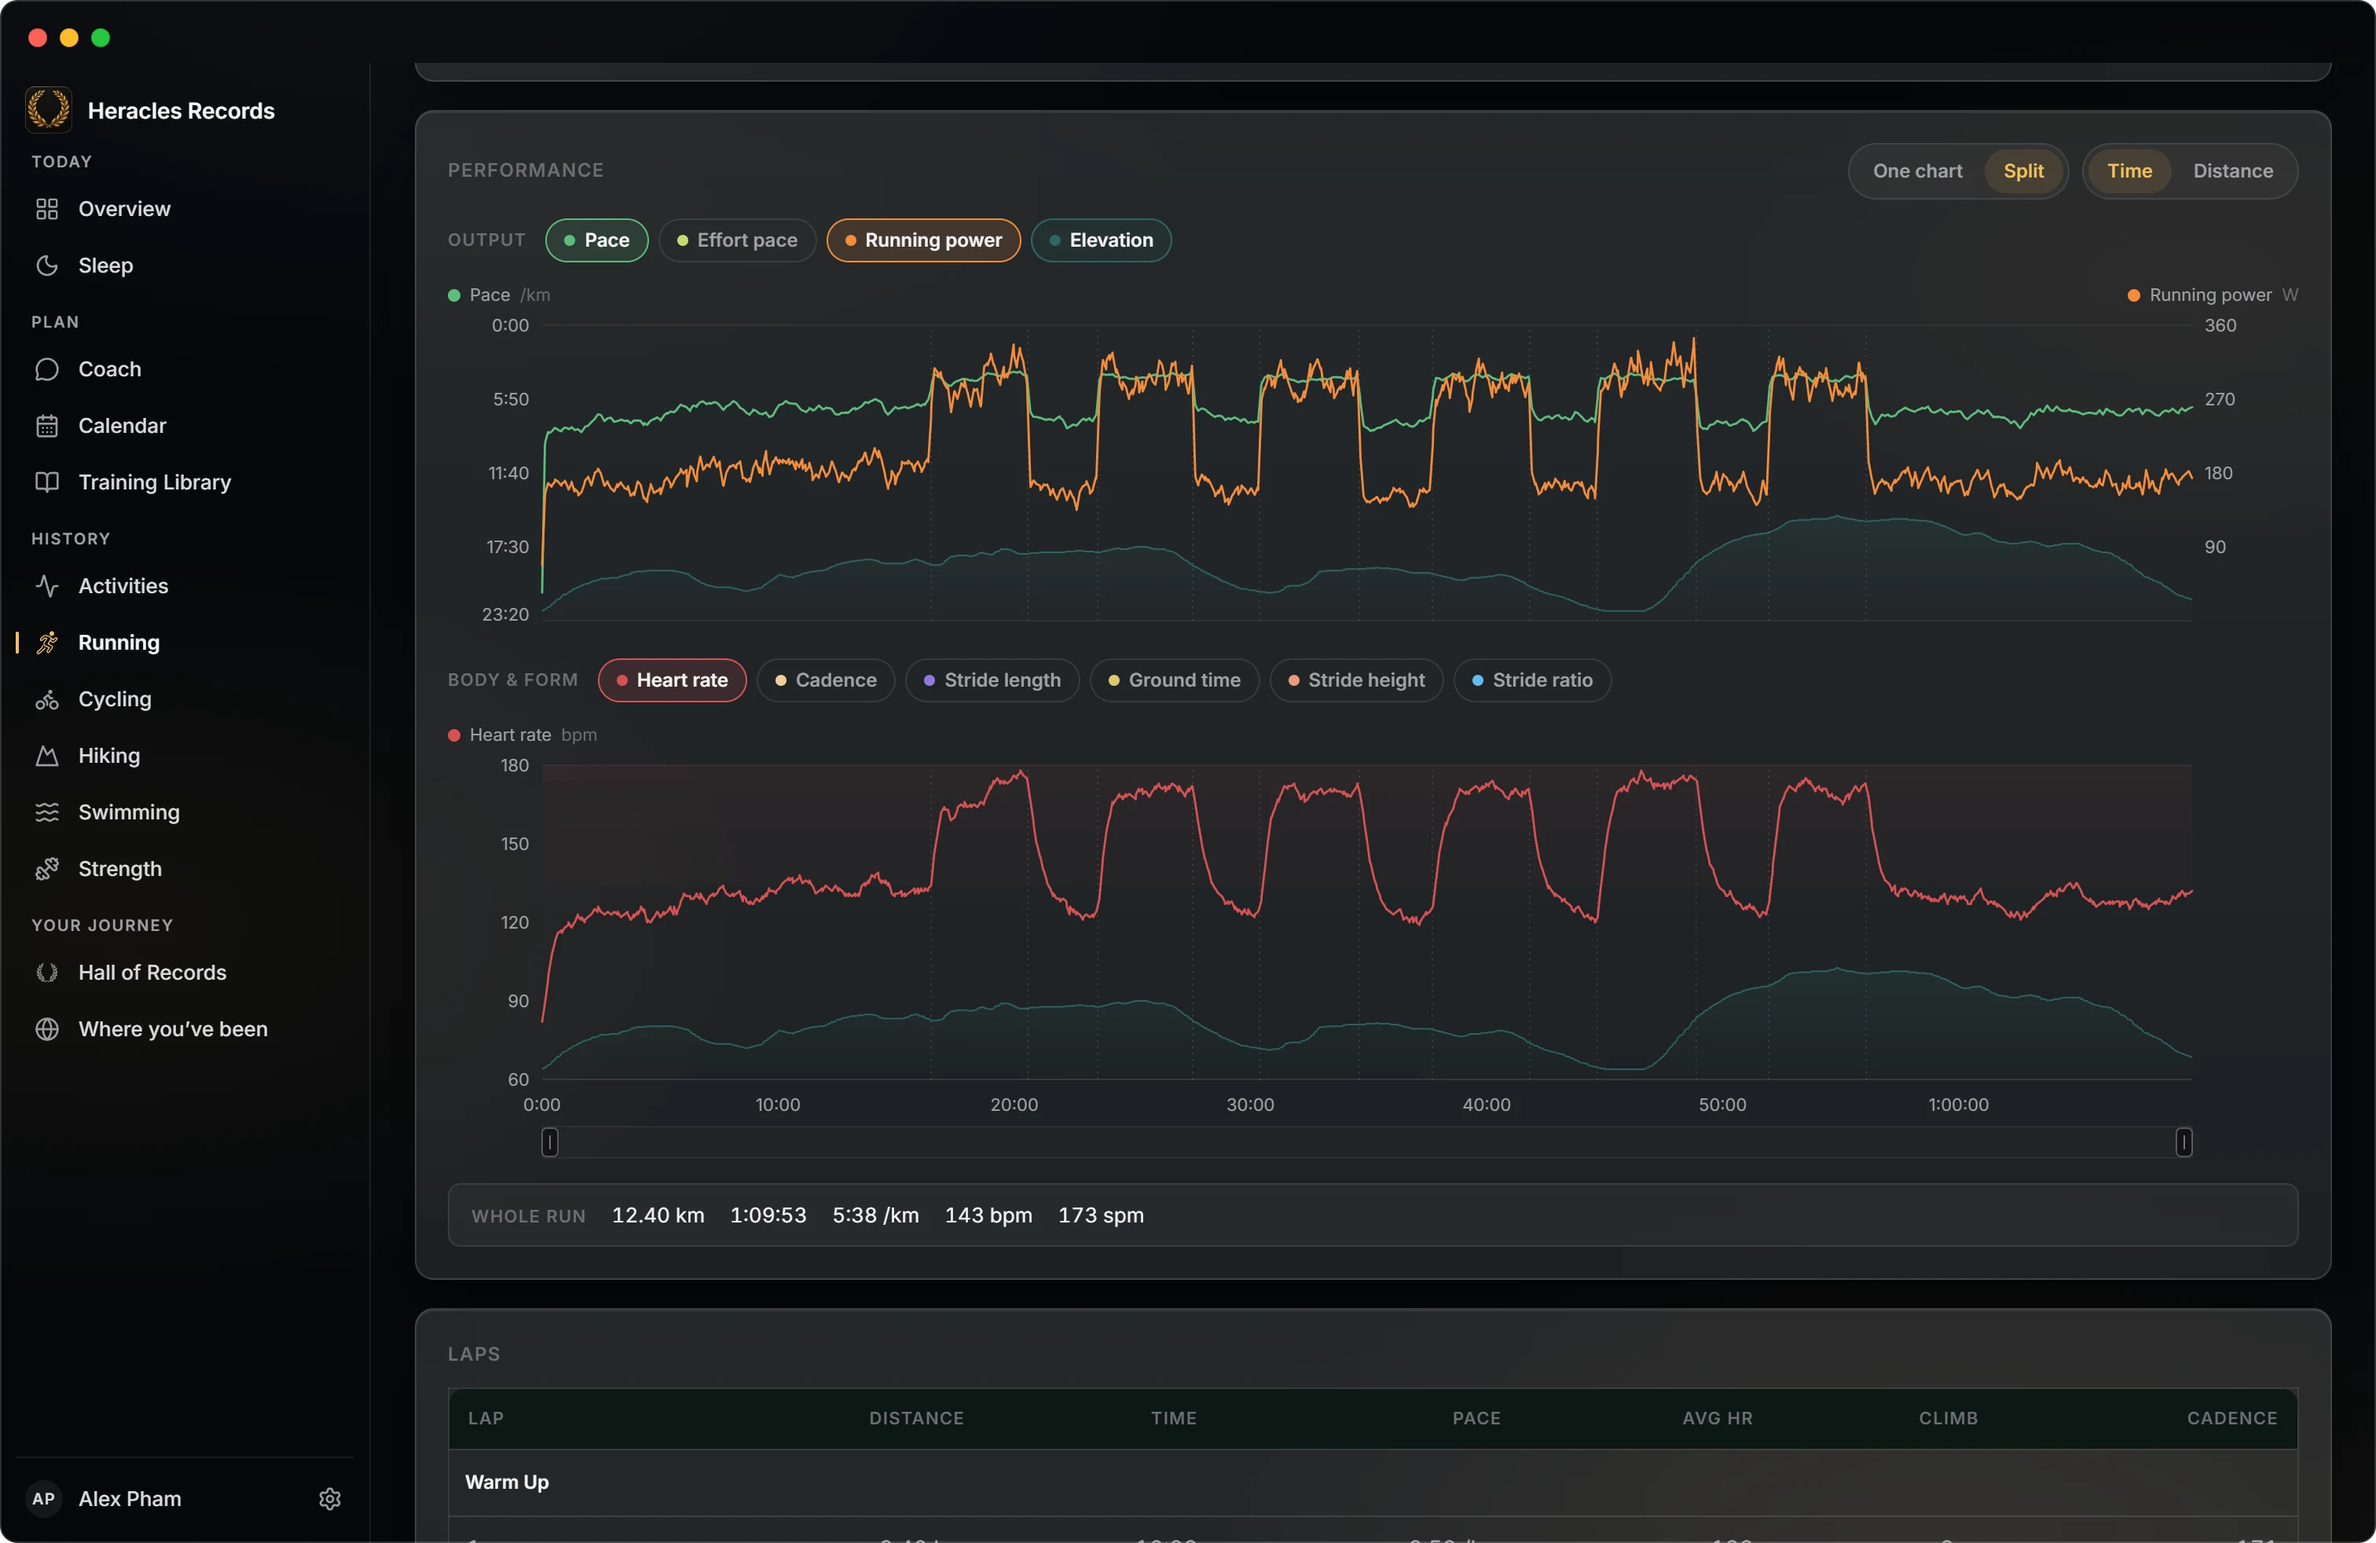
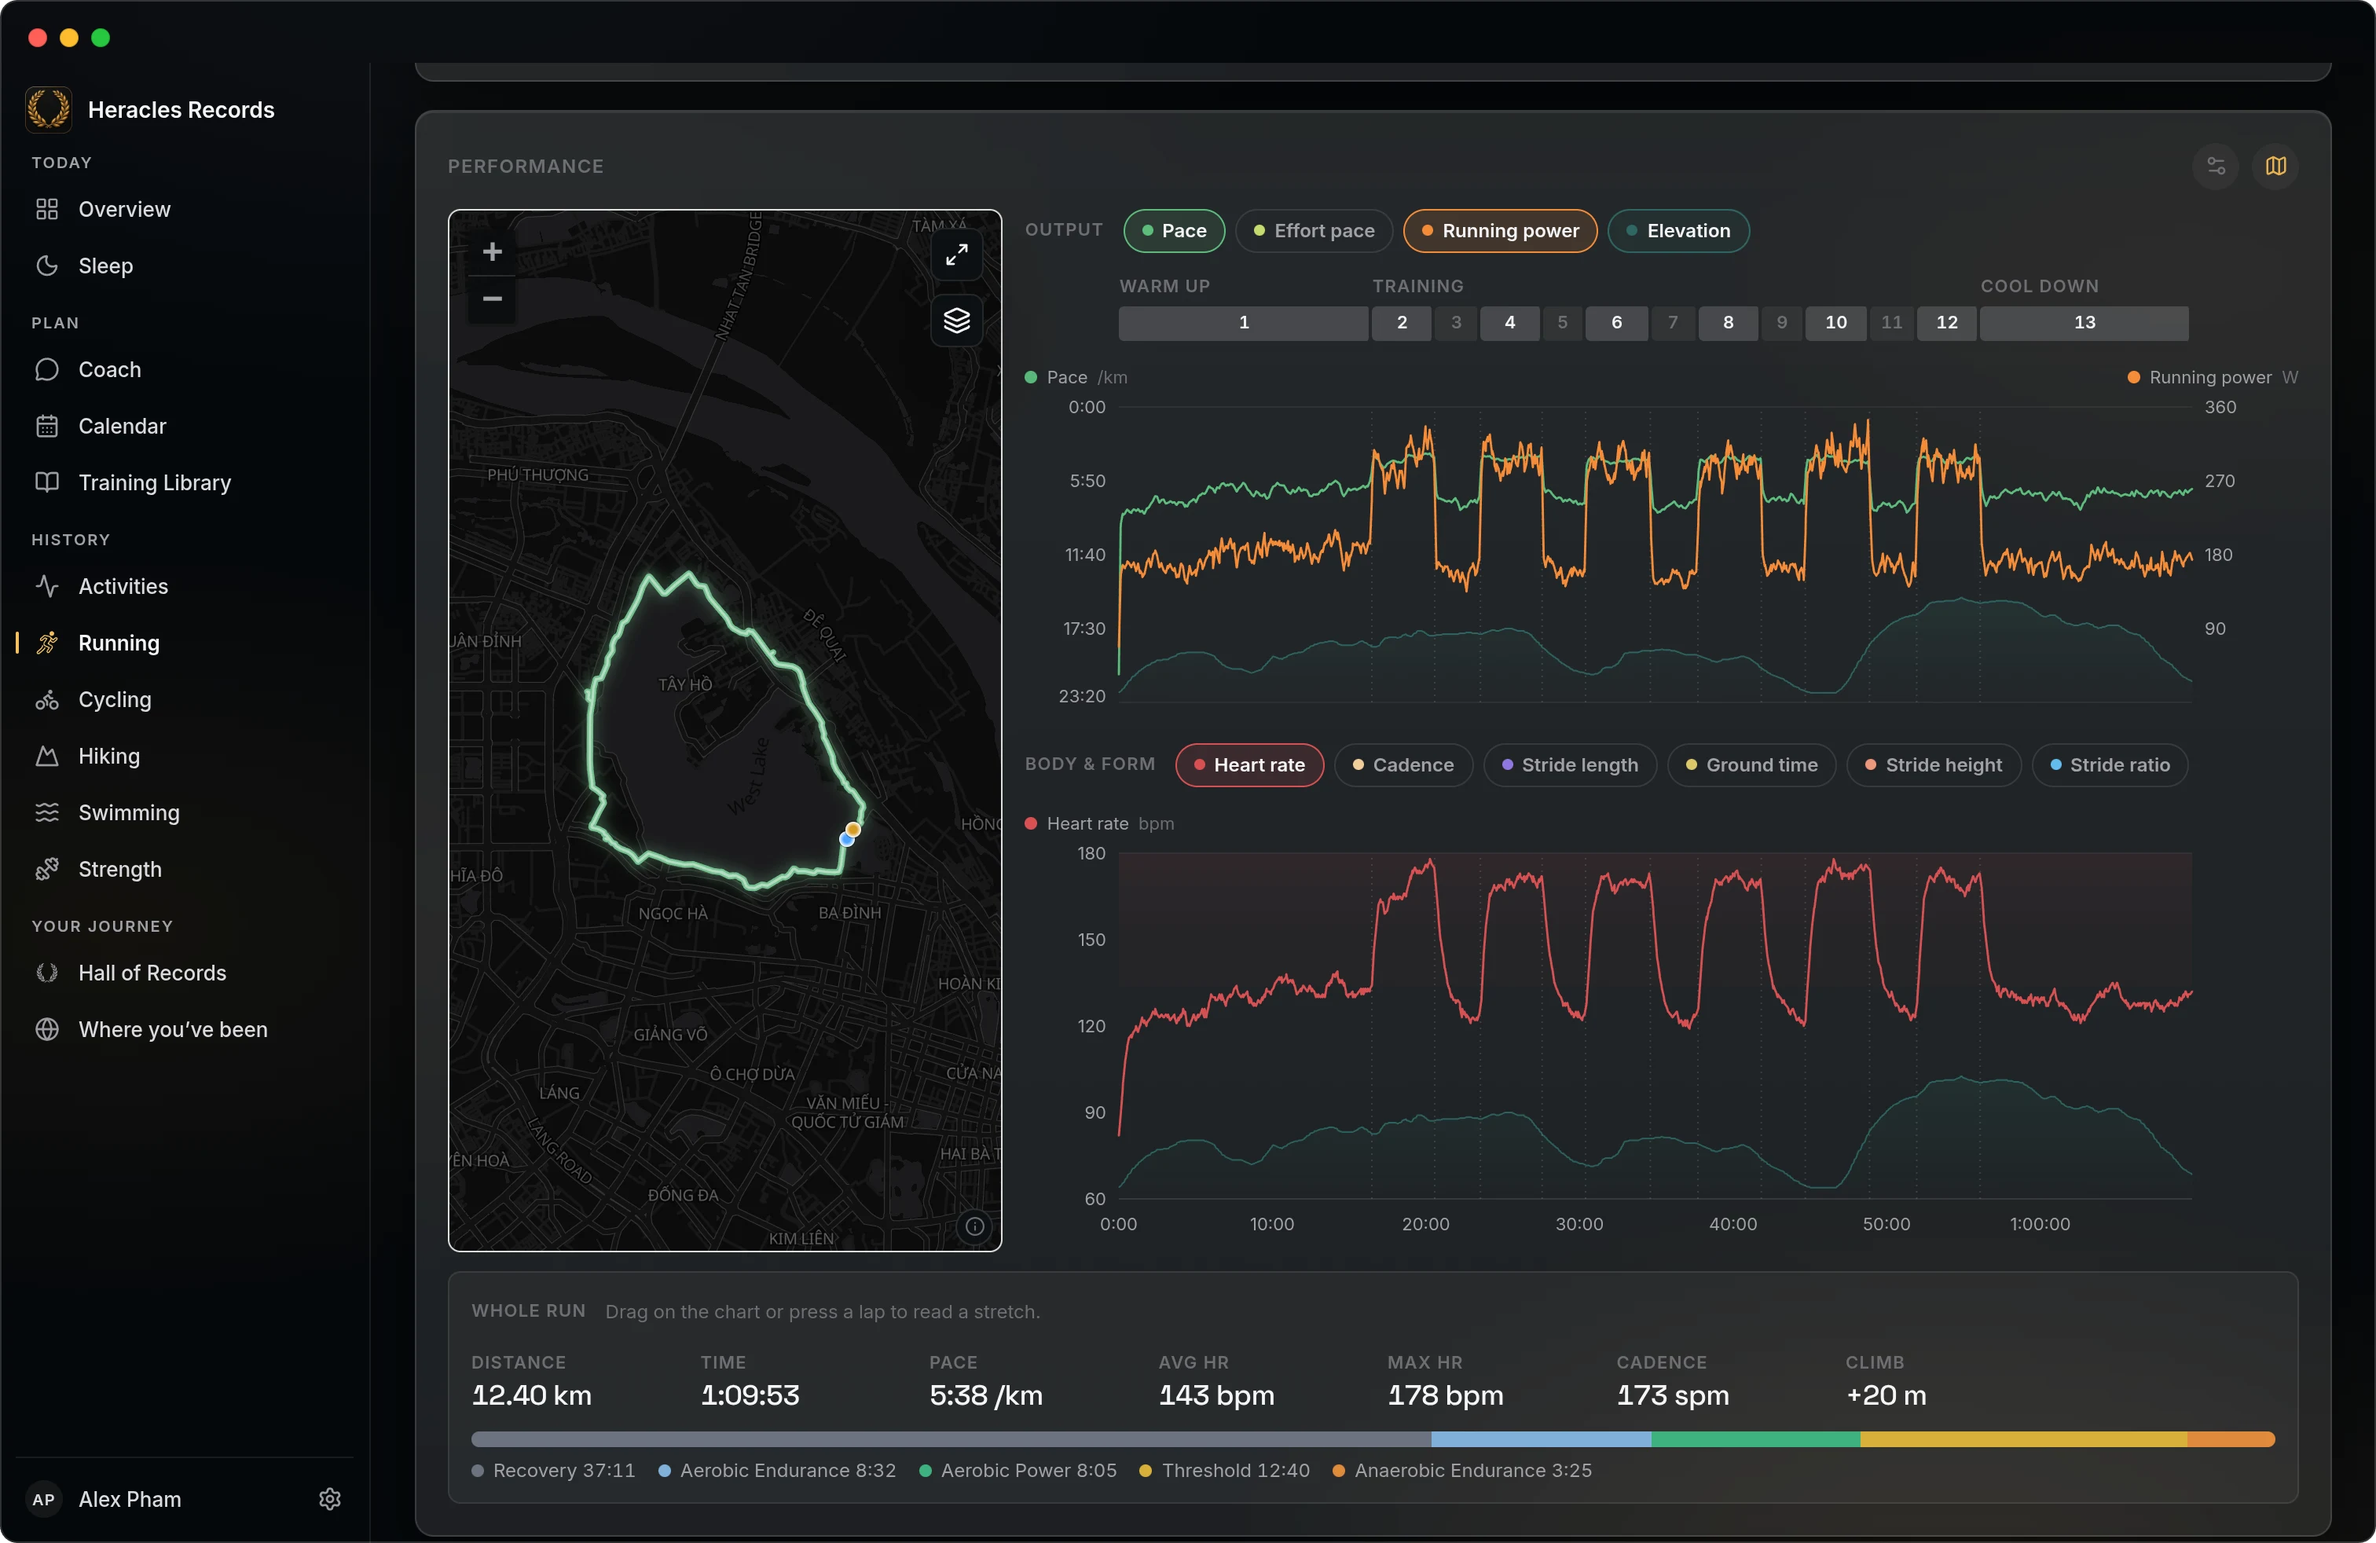
Changelog, README, site and screenshots for what changed since 1.4.7
The Unreleased section named four of twenty-six commits; it now has the
rest, and the fixes of the review. The README and the site no longer offer
a Week view or a Street and Topo route map, and say the route stands beside
the Performance chart. Shots 03, 04, 05, 06, 09, 28 and 32 are retaken;
28 opens Chart settings for Split, where the switch now is.

diff --git a/CHANGELOG.md b/CHANGELOG.md
@@ -12,6 +12,32 @@ and this project adheres to [Semantic Versioning](https://semver.org/spec/v2.0.0
 - **A tidier Performance chart** - time in heart rate zones is one bar under the chart (hover a zone for its bounds, time and share) instead of a panel of its own; a settings button chooses which channel chips are shown; the distance axis is marked every kilometre or mile where that fits, and the choice of time or distance is remembered.
 - **Route map** - the layer menu lists Route, Pace, Heart rate, Elevation and Heatmap directly, and no longer offers the Street and Topo base maps.
 - **Figures move when you change what they show** - choose another period or filter and the figures roll up or down to their new values while a weekly chart zooms along its weeks; choose another measure (time, distance, load, sets) and the figures slide across while the bars change height in place. On Overview, Running, Cycling, Hiking, Swimming, Strength and Activities, and a session's time in zones. A change you did not make here, such as new data or units changed in Personal, just appears.
+- **Running efficiency reads steadier** - the oxygen cost of your speed is now ACSM's running equation, the usual is read from steady running alone (55-80% of your heart rate reserve), and one scale onto your COROS VO₂max holds for the whole year, so a block of tempo or easy running no longer moves your usual and a run is not re-valued as the weeks roll. The verdict (above, in line with or below your usual) is said in the chart's head, and hovering a run on the Running screen shows the run, the usual it is read against and the 7-day median. The Durability figure is gone: it depended too much on how long your usual runs were.
+- **Strength supersets in the workout builder** - a repeat can now hold strength movements, one set of each a round, with the rest after each set.
+- **Exercises Library** - a movement shows COROS's own description under its clip: starting position, action and tips.
+- **Route replay has a speed** - the full map's Replay gets 0.25×, 0.5×, 1× and 2×, remembered like the map's other choices. The route behind a session's heading is drawn whole instead of replaying as the page opens.
+- **Coach** - a plan card shows a strip for every week (the first four, then Show all), and a plan brief you no longer want can be discarded from its card.
+
+### Changed
+- **Calendar is month only** - the Week view showed nothing the month did not, and is gone.
+- A strength step Coach named for its set ("Bench 60 kg 4x6-10") is shown as its movement with that name under it, and sets done under such a name count toward the movement's records and history again.
+
+### Fixed
+- Coach: a conversation continued on two computers no longer shows a question twice, or as "answering on another device" when it was asked here.
+- Coach: a turn that stopped at a usage limit after drawing its charts or plan says so, with when the limit resets, instead of ending without a word.
+- Coach: a tool error that a later read of the same thing made up for no longer stays under the answer.
+- Coach: jumping to a question, a waiting entry or a plan's place in the conversation lands on it, however far up it is.
+- Coach: a brief cannot be discarded while Coach is still writing in its conversation, and a conversation left with nothing but a discarded brief reads as empty.
+- Coach: pressing a week on a plan card's overview brings that week into view at the end of a conversation too.
+- Coach: a question copied into another editor keeps its line breaks, and a change card's view switch keeps its width beside a long workout name.
+- Coach plans rest between strength exercises as the watch does (the rest after a step's last set), and reads the rest you took in a session.
+- A strength movement written inside a repeat keeps its movement when saved to COROS.
+- A strength workout with a repeat counts every round in its sets and its weight lifted, and the builder's time counts the rest after each set of a superset.
+- Workout builder: a step turned into a repeat is saved as a new repeat instead of over the step it was.
+- Activities: on a session with a pause, a lap marks its own stretch of the chart instead of an earlier one.
+- Running efficiency: better minutes are no longer drawn in the worse colour.
+- Linux (.deb): an update waits for the system's package manager instead of failing while it is busy, and no longer asks for the password again and again on a desktop that cannot ask for it. An update the app cannot install itself now sends you to the download page on heraclesrecords.com.
+- Overview: a training load heatmap card's date no longer runs over its first title.
 
 ## [1.4.7] - 2026-11-05
 

diff --git a/README.md b/README.md
@@ -102,8 +102,8 @@ Nights and naps, stages, HRV and stress across the night, kept long after the ni
       <p><strong>Running efficiency</strong>: how much speed each minute bought for the heart rate it cost, on your COROS VO₂max scale and against your usual from the six weeks before. It shows how well you held it to the end, and marks every stretch it could not read fairly.</p>
     </td>
     <td width="50%" valign="top">
-      <img src="docs/readme/28-run-performance.webp" alt="Performance chart split in two: pace and running power above, heart rate below" />
-      <p><strong>Performance</strong>: every surge and stop drawn rather than averaged away, in COROS's own colours. Split it and what you produced sits above what it cost, on one clock, with the laps headed by the workout's parts underneath.</p>
+      <img src="docs/readme/28-run-performance.webp" alt="Performance chart split in two beside the route: pace and running power above, heart rate below" />
+      <p><strong>Performance</strong>: every surge and stop drawn rather than averaged away, in COROS's own colours. Split it and what you produced sits above what it cost, on one clock. The route stands beside it: drag on the chart, press a lap or drag along the route, and that stretch lights up on all three with its own figures.</p>
     </td>
   </tr>
 </table>
@@ -168,7 +168,7 @@ Choose **Heracles TL** under **Strength → Settings → Training load formula**
 
 ### Plan & Library
 
-**Calendar**: planned and done side by side, by week or month, with a plan's compliance on every session. Drag a session to another day and it moves on your COROS calendar too.
+**Calendar**: planned and done side by side, month by month, with a plan's compliance on every session. Drag a session to another day and it moves on your COROS calendar too.
 
 <img src="docs/readme/09-calendar.webp" alt="Calendar: planned and completed sessions by month" />
 
